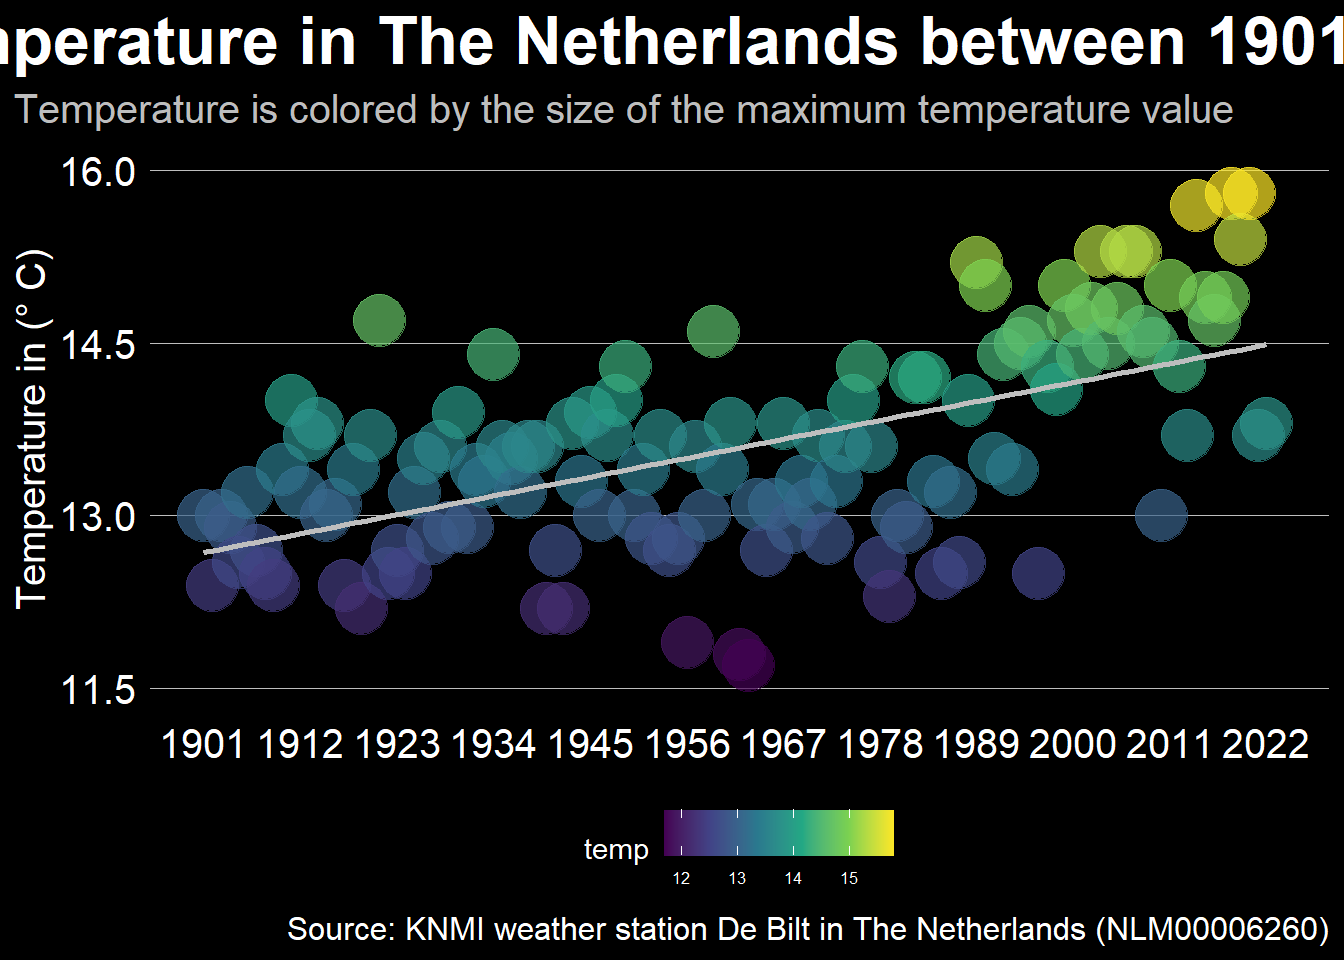
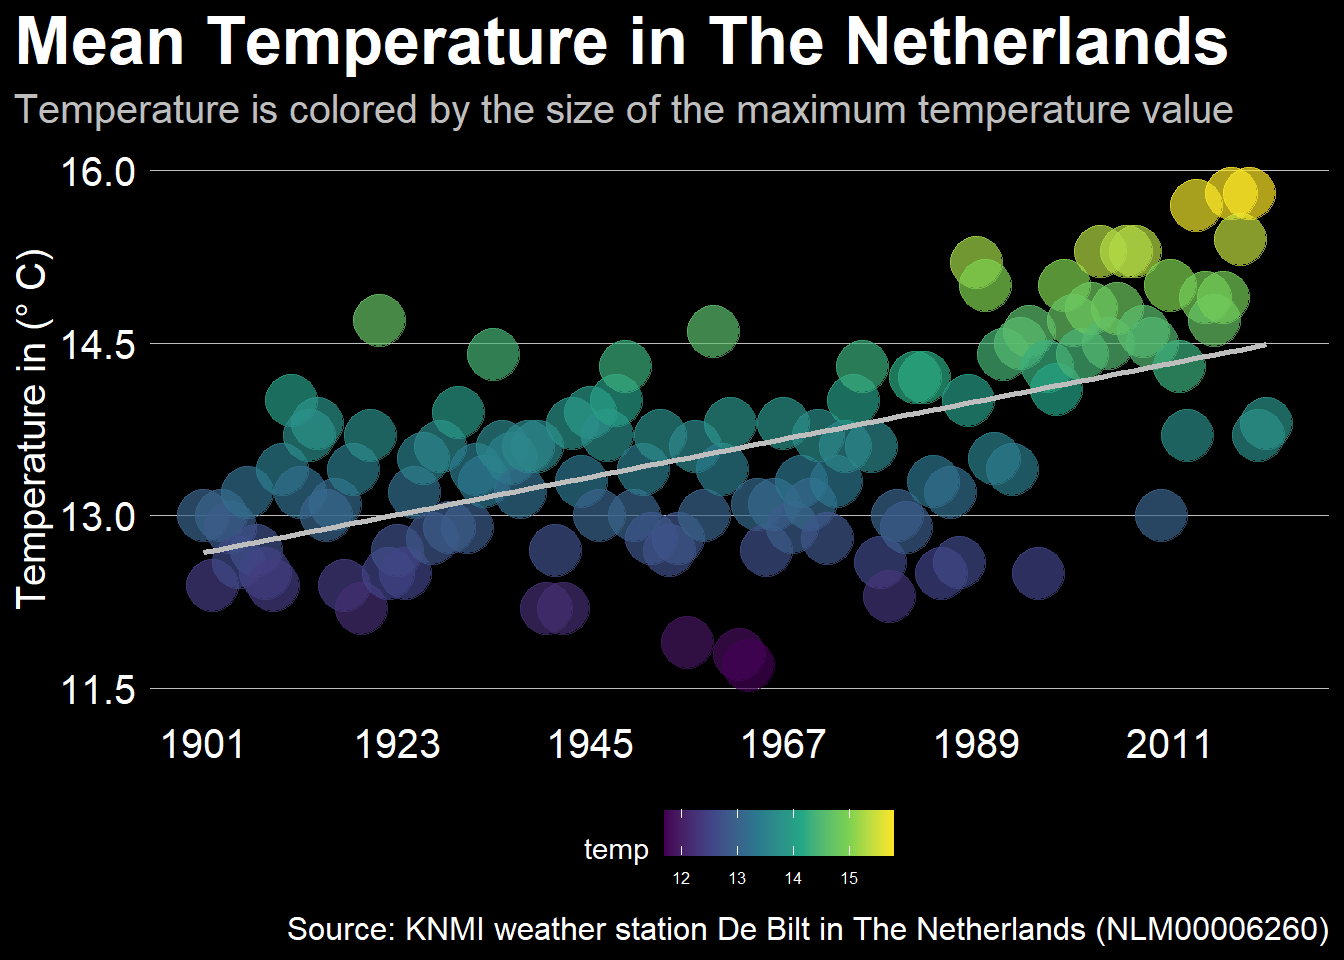
changed code

diff --git a/content/blog/20220722_temperature_ne/index.html b/content/blog/20220722_temperature_ne/index.html
@@ -27,102 +27,51 @@ url_video: ""
 
 <div id="introduction" class="section level1">
 <h1>Introduction</h1>
-</div>
-<div id="no-climate-crisis-in-the-netherlands-based-on-temperature-and-precipitation-differences." class="section level1">
-<h1>No climate-crisis in The Netherlands based on temperature and precipitation differences.</h1>
 <p>There’s a slight temperature rise measured in the Netherlands between 1901 and 2022. Though the maximum temperatures near 37 degrees of Celsius were also measured respectively 15, 30, 50 and 60 years ago.</p>
-<p>My conclusion based on these data is that there is light positive trend of temperature rise from 1901 to 2022 but this doesn’t suppport the idea of a climate-crisis based on measured temperature differences.</p>
 <p>Source:1. Source: KNMI weather station De Bilt in The Netherlands (NLM00006260)
 2. <a href="https://github.com/EdwardHill15/climate_viz" class="uri">https://github.com/EdwardHill15/climate_viz</a></p>
 </div>
-<div id="scraping-weather-data-from-the-internet-with-r-and-the-tidyverse-cc231" class="section level1">
-<h1>Scraping weather data from the internet with R and the tidyverse (CC231)</h1>
+<div id="data" class="section level1">
+<h1>Data</h1>
+<div id="scraping-weather-data-from-the-internet-with-r-and-the-tidyverse-cc231" class="section level2">
+<h2>Scraping weather data from the internet with R and the tidyverse (CC231)</h2>
 <ul>
 <li><a href="https://riffomonas.org/code_club/2022-07-18-local-weather" class="uri">https://riffomonas.org/code_club/2022-07-18-local-weather</a></li>
-<li>Finding a Weather Station</li>
-<li><a href="https://ncei.noaa.gov/cdo-web/" class="uri">https://ncei.noaa.gov/cdo-web/</a>
-# Methods</li>
 </ul>
-<div id="data" class="section level2">
-<h2>Data</h2>
 </div>
+<div id="finding-a-weather-station" class="section level2">
+<h2>Finding a Weather Station</h2>
+<ul>
+<li><a href="https://ncei.noaa.gov/cdo-web/" class="uri">https://ncei.noaa.gov/cdo-web/</a></li>
+</ul>
 </div>
-<div id="weather-station-knmi-de-bilt-the-netherlands" class="section level1">
-<h1>Weather Station KNMI De Bilt The Netherlands</h1>
+<div id="weather-station-knmi-de-bilt-the-netherlands" class="section level2">
+<h2>Weather Station KNMI De Bilt The Netherlands</h2>
 <ul>
 <li><a href="https://www.knmi.nl/home" class="uri">https://www.knmi.nl/home</a></li>
 </ul>
-<pre class="r"><code>inventory_url &lt;- &quot;https://www.ncei.noaa.gov/pub/data/ghcn/daily/ghcnd-inventory.txt&quot;
-
-inventory &lt;- read_table(inventory_url, 
-           col_names = c(&quot;station&quot;, &quot;lat&quot;, &quot;lon&quot;, &quot;variable&quot;, &quot;start&quot;, &quot;end&quot;))</code></pre>
-<pre><code>## 
-## -- Column specification --------------------------------------------------------
-## cols(
-##   station = col_character(),
-##   lat = col_double(),
-##   lon = col_double(),
-##   variable = col_character(),
-##   start = col_double(),
-##   end = col_double()
-## )</code></pre>
-<pre class="r"><code>my_lat &lt;- 52.13 * 2 * pi / 360
-my_lon &lt;- 5.29 * 2 * pi / 360
-
-
-inventory &lt;- inventory %&gt;% 
-  mutate(lat_r = lat*2*pi/360,
-         lon_r = lon*2*pi/360,
-         d = 3963 * acos((sin(lat_r) * sin(my_lat)) + 
-                           cos(lat_r) * cos(my_lat) *
-                           cos(my_lon - lon_r)))</code></pre>
 <!-- # mutate miles into km with * 1.609344 -->
-<pre class="r"><code>my_station &lt;- inventory %&gt;% 
-  mutate(lat_r = lat*2*pi/360,
-         lon_r = lon*2*pi/360,
-         d = 1.609344 * 3963 * acos((sin(lat_r) * sin(my_lat)) + 
-                           cos(lat_r) * cos(my_lat) *
-                           cos(my_lon - lon_r))) %&gt;% 
-  filter(start &lt; 1960 &amp; end &gt; 2020) %&gt;% 
-  top_n(n = -1, d) %&gt;% 
-  distinct(station) %&gt;% 
-  pull(station)</code></pre>
 </div>
-<div id="get-and-tidy-local-weather-station-data-from-nle00100501" class="section level1">
-<h1>Get and tidy local weather station data (from: “NLE00100501”)</h1>
-<pre class="r"><code>station_daily &lt;- glue(&quot;https://www.ncei.noaa.gov/pub/data/ghcn/daily/by_station/{my_station}.csv.gz&quot;)
-
-df &lt;- read_csv(station_daily,
-         col_names = c(&quot;station&quot;, &quot;date&quot;, &quot;variable&quot;, &quot;value&quot;, &quot;a&quot;, &quot;b&quot;, &quot;c&quot;, &quot;d&quot;)) %&gt;% 
-  select(date, variable, value) %&gt;% 
-  pivot_wider(names_from = &quot;variable&quot;, values_from = &quot;value&quot;,
-              values_fill = 0) %&gt;% 
-  select(date, TMAX, TMIN, PRCP)</code></pre>
-<pre><code>## Warning: One or more parsing issues, see `problems()` for details</code></pre>
-<pre><code>## Rows: 177250 Columns: 8
-## -- Column specification --------------------------------------------------------
-## Delimiter: &quot;,&quot;
-## chr (4): station, variable, a, c
-## dbl (2): date, value
-## lgl (2): b, d
-## 
-## i Use `spec()` to retrieve the full column specification for this data.
-## i Specify the column types or set `show_col_types = FALSE` to quiet this message.</code></pre>
+<div id="get-and-tidy-local-weather-station-data-from-nle00100501" class="section level2">
+<h2>Get and tidy local weather station data (from: “NLE00100501”)</h2>
 </div>
-<div id="statistical-analysis" class="section level1">
-<h1>Statistical Analysis</h1>
-<div id="maximum-temperature-in-the-netherlands-between-1901-and-2022" class="section level2">
-<h2>Maximum Temperature in The Netherlands between 1901 and 2022</h2>
+</div>
+<div id="statistical-analysis-and-plots" class="section level1">
+<h1>Statistical Analysis and plots</h1>
+<div id="figure-1-maximum-temperature-in-the-netherlands-between-1901-and-2022" class="section level2">
+<h2>Figure 1: Maximum Temperature in The Netherlands between 1901 and 2022</h2>
 <p><img src="{{< blogdown/postref >}}index_files/figure-html/unnamed-chunk-4-1.png" width="672" /></p>
 </div>
-<div id="mean-temperature-in-the-netherlands-between-1901-and-2022" class="section level2">
-<h2>Mean Temperature in The Netherlands between 1901 and 2022</h2>
+<div id="figure-2-mean-temperature-in-the-netherlands-between-1901-and-2022" class="section level2">
+<h2>Figure 2: Mean Temperature in The Netherlands between 1901 and 2022</h2>
 <p><img src="{{< blogdown/postref >}}index_files/figure-html/unnamed-chunk-5-1.png" width="672" /></p>
 </div>
-<div id="precipitation-in-the-netherlands-between-1901-and-2022" class="section level2">
-<h2>Precipitation in The Netherlands between 1901 and 2022</h2>
-<pre><code>## Warning: Removed 5 rows containing non-finite values (stat_smooth).</code></pre>
-<pre><code>## Warning: Removed 5 rows containing missing values (geom_point).</code></pre>
+<div id="figure-3-precipitation-in-the-netherlands-between-1901-and-2022" class="section level2">
+<h2>Figure 3: Precipitation in The Netherlands between 1901 and 2022</h2>
 <p><img src="{{< blogdown/postref >}}index_files/figure-html/unnamed-chunk-6-1.png" width="672" /></p>
 </div>
+</div>
+<div id="conclusion" class="section level1">
+<h1>Conclusion</h1>
+<p>My conclusion based on these data is that there is light positive trend of temperature rise from 1901 to 2022 but this doesn’t suppport the idea of a climate-crisis based on measured temperature differences.</p>
 </div>
